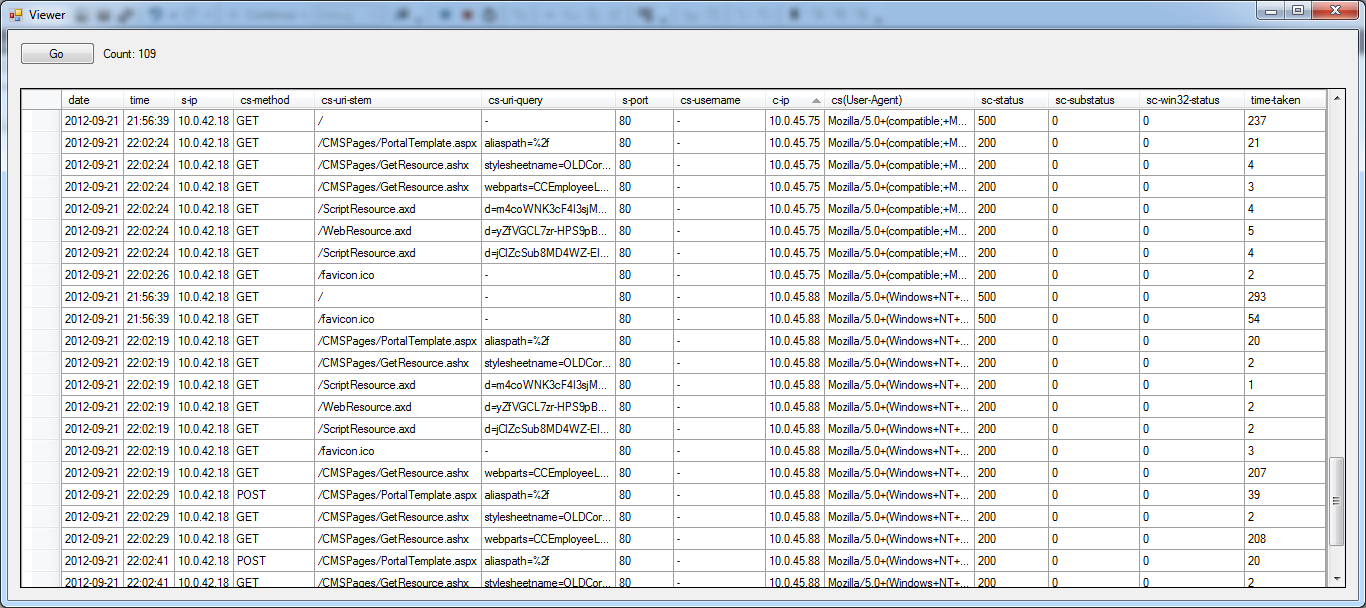
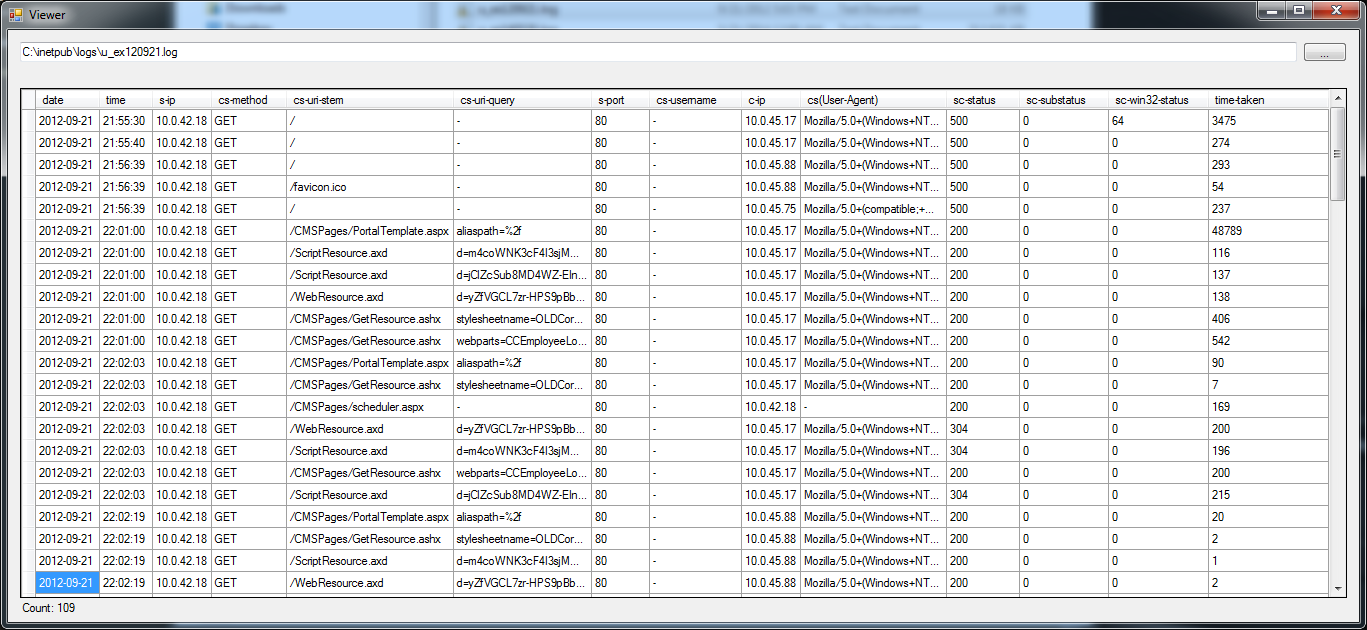
Updated docs

diff --git a/README.md b/README.md
@@ -1,7 +1,7 @@
 IISLogViewer
 ============
 
-Simple Viewer for IIS Log Files, hard coded to open one file at the moment
+Simple Viewer for IIS Log Files. Browse to and open a log file for easy reading.
 
 ![Main Screen](Image.png)
 
